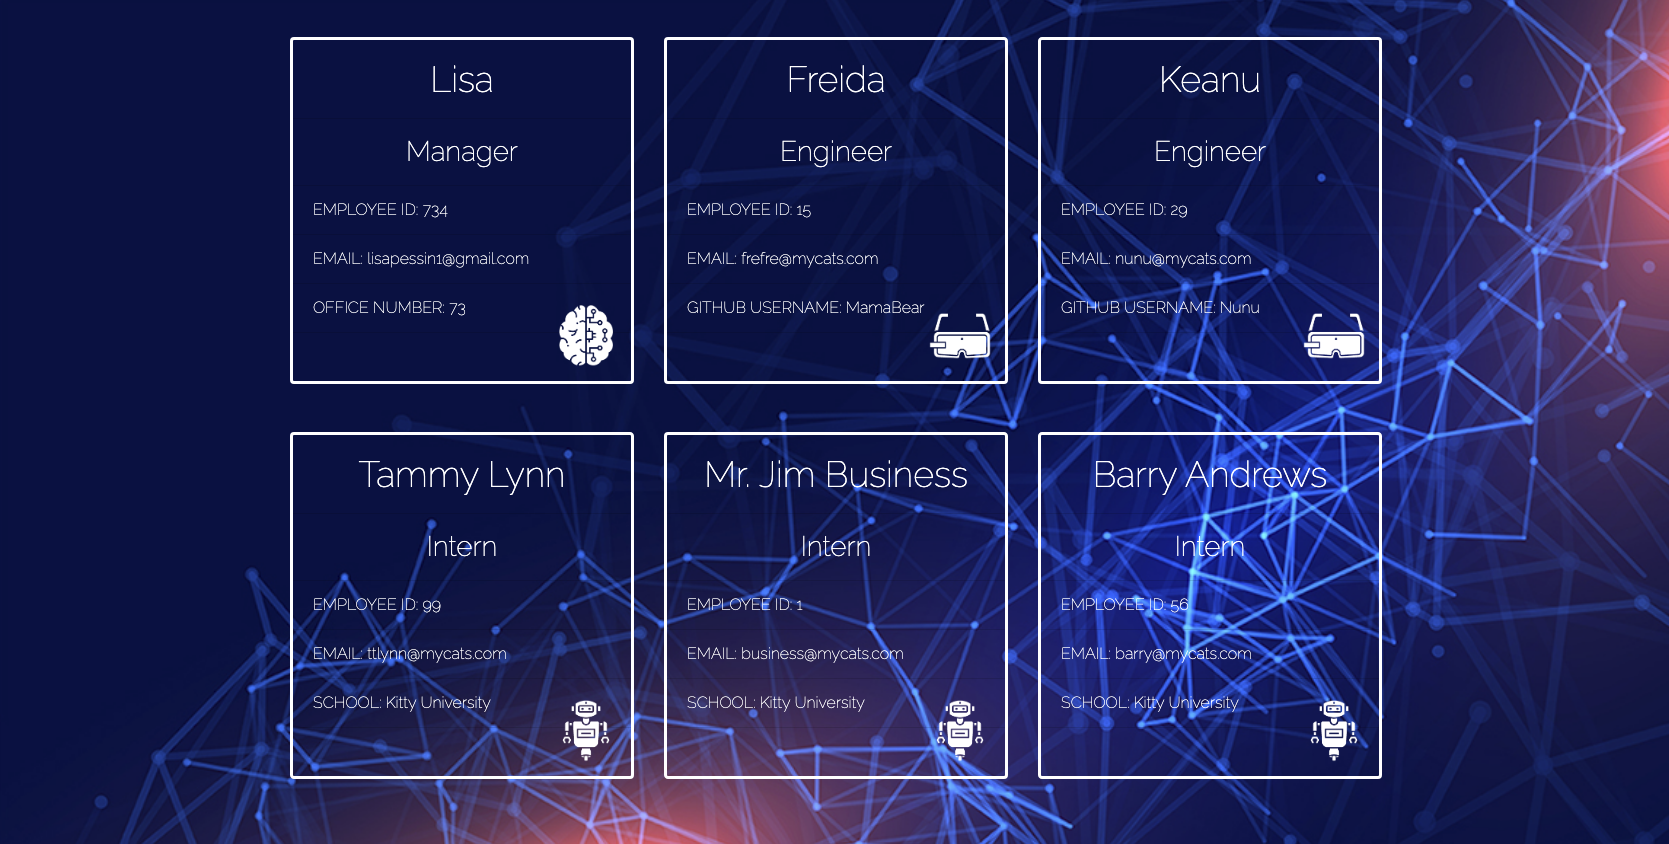
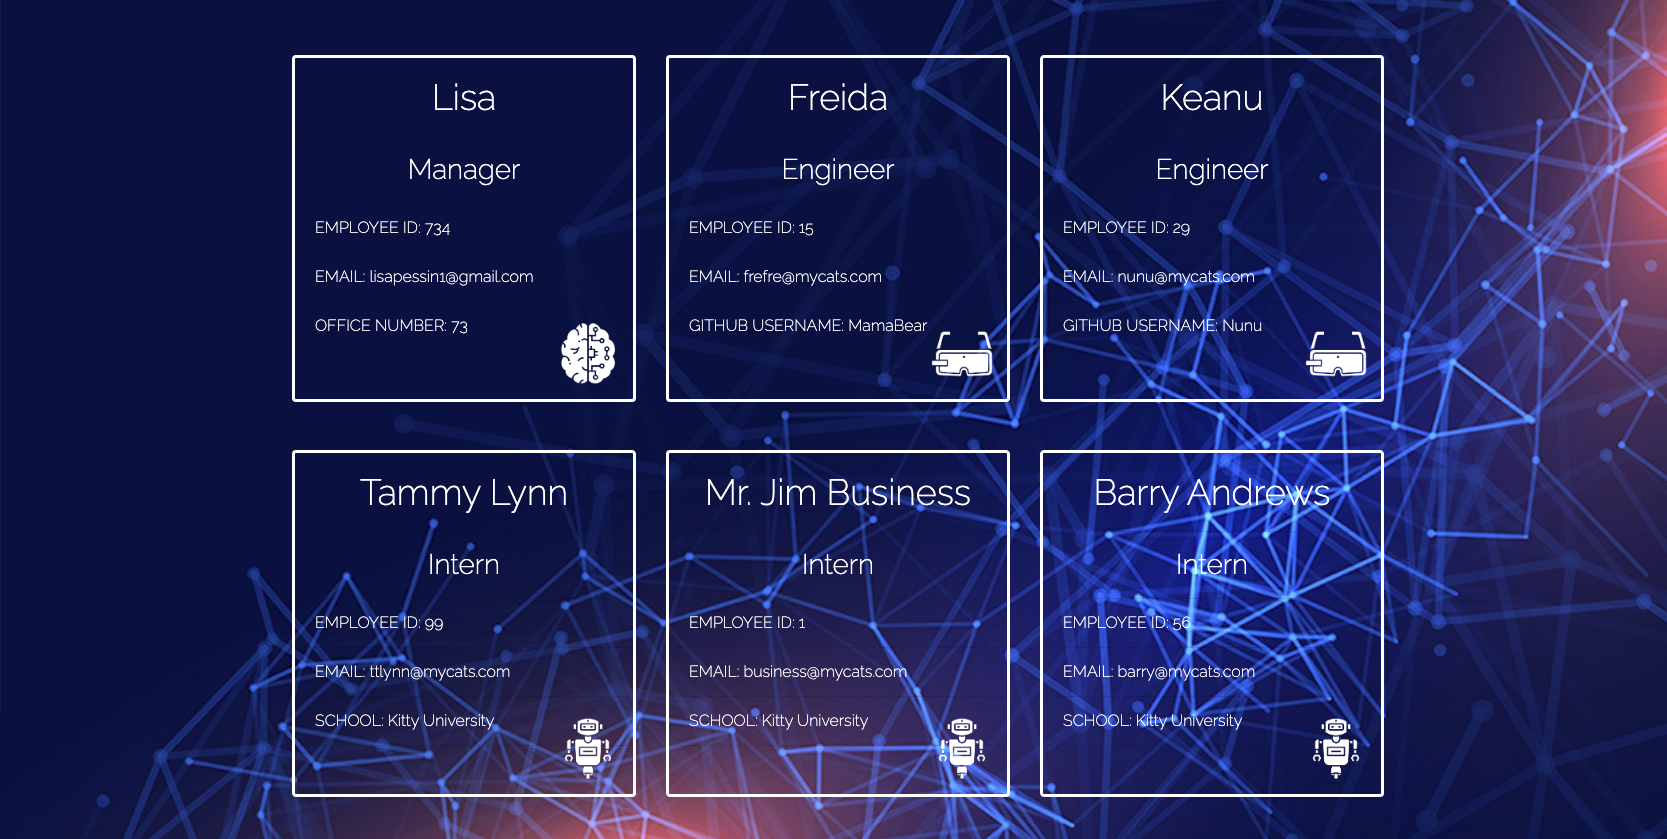
updated readme

diff --git a/index.js b/index.js
@@ -188,7 +188,7 @@ promptQuestions();
     
             <!-- google fonts -->
             <link rel="preconnect" href="https://fonts.gstatic.com">
-            <link href="https://fonts.googleapis.com/css2?family=Raleway:wght@100&display=swap" rel="stylesheet">
+            <link href="https://fonts.googleapis.com/css2?family=Raleway:wght@200&display=swap" rel="stylesheet">
     
             <!-- custom css -->
             <link rel="stylesheet" href="../assets/style.css"/>

diff --git a/dist/ExampleHTML.html b/dist/ExampleHTML.html
@@ -12,7 +12,7 @@
     
             <!-- google fonts -->
             <link rel="preconnect" href="https://fonts.gstatic.com">
-            <link href="https://fonts.googleapis.com/css2?family=Raleway:wght@100&display=swap" rel="stylesheet">
+            <link href="https://fonts.googleapis.com/css2?family=Raleway:wght@200&display=swap" rel="stylesheet">
     
             <!-- custom css -->
             <link rel="stylesheet" href="../assets/style.css"/>

diff --git a/README.md b/README.md
@@ -17,6 +17,13 @@ This is a command line application that runs with Node.js to dynamically generat
 ***
 <br/><br/>
 
+## License
+  Copyright © Lisa Pessin 2021  
+  This application is covered under the MIT License.  
+  For more information, visit https://opensource.org/licenses/MIT.
+
+  ***
+
 ## Installation
 1. Download the files in this repo.
   2. Open in Visual Studios Code.
@@ -40,6 +47,6 @@ This is a command line application that runs with Node.js to dynamically generat
 <br/><br/>
 
 ## Example Image
-![ExampleImage](https://user-images.githubusercontent.com/77073582/115916608-0646cf00-a443-11eb-9b7b-d1c8fe728be7.png)
+![ExampleImage](https://user-images.githubusercontent.com/77073582/115917229-e6fc7180-a443-11eb-8636-bb8dbffb75f6.png)
 
 ***
